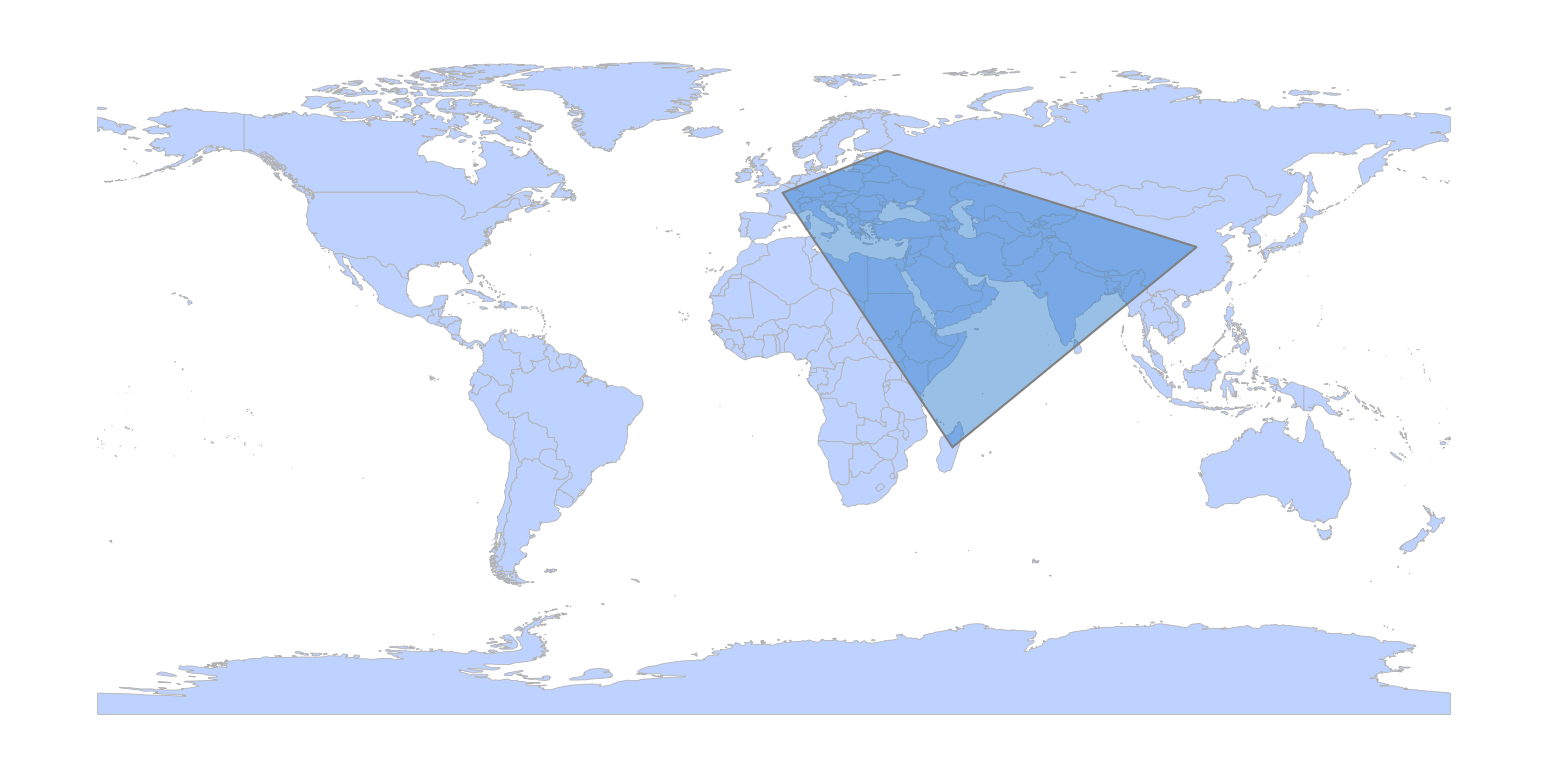
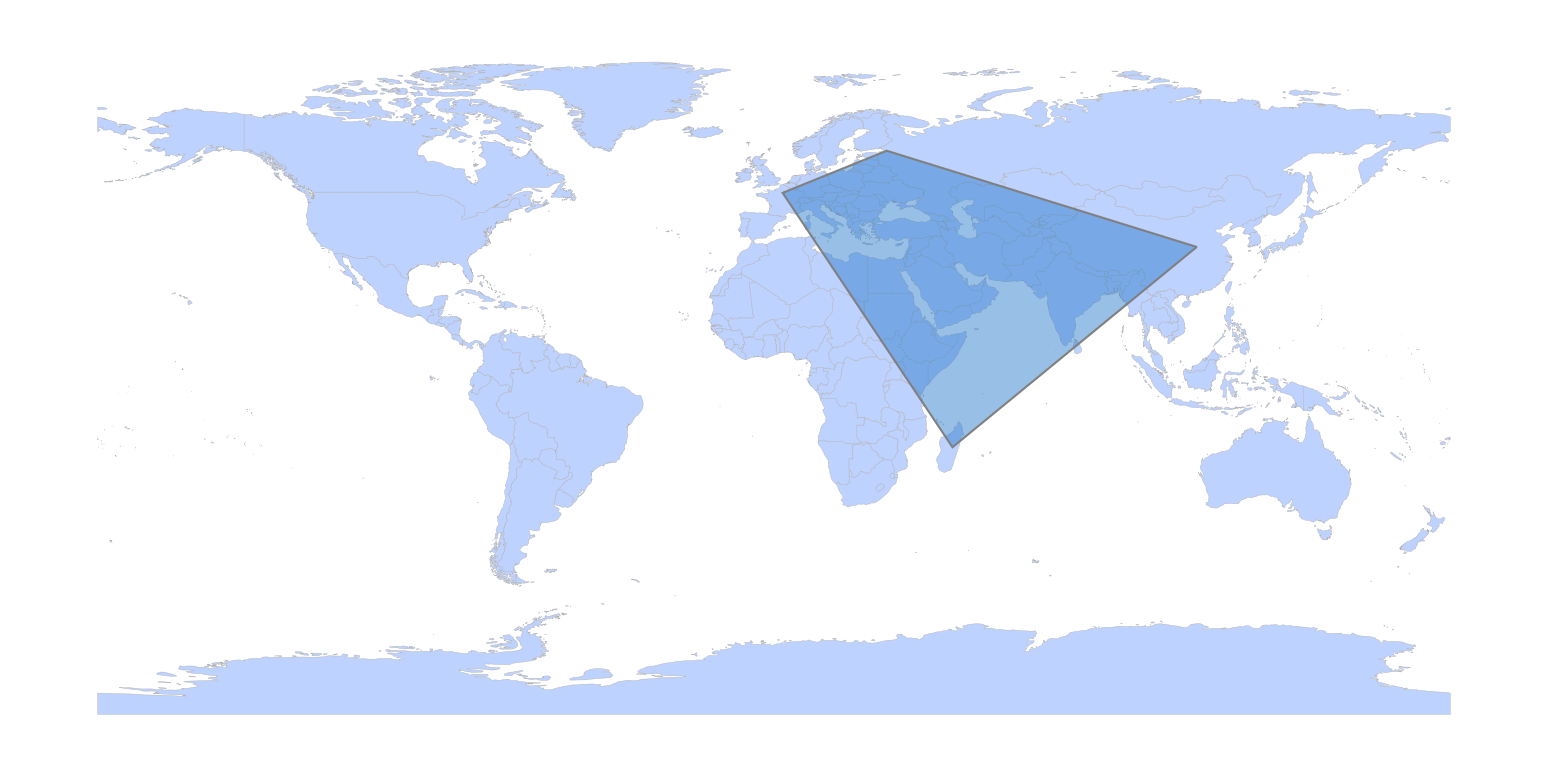
1.1.6a3

diff --git a/docs/UserGuide/map/plot/MapFrame/AddFeature.md b/docs/UserGuide/map/plot/MapFrame/AddFeature.md
@@ -4,7 +4,7 @@ date: 2023-04-10
 sidebar: false
 ---
 
-## **AddFeature**(*GMAFeature, FaceColor = '#BED2FF', EdgeColor = '#B2B2B2',                   Hatch = None, LineStyle = None, LineWidth = 0.5, LineColor = '#B2B2B2',                   PointColor = '#BED2FF', PointSize = 0.5, PointMarker = None, Label = None,                   FieldName = None, Connector = '', Zorder = None*)<Badge text="1.1.5 +"/> 
+## **AddFeature**(*GMAFeature, FaceColor = '#BED2FF', EdgeColor = '#B2B2B2', Hatch = None, LineStyle = None, LineWidth = 0.5, LineColor = '#B2B2B2', PointColor = '#BED2FF', PointSize = 0.5, PointMarker = None, Label = None,  FieldName = None, Connector = '', Zorder = None*)<Badge text="1.1.5 +"/> 
 
 ---
 
@@ -69,9 +69,8 @@ FPolygon = plot.CreatePlotFeature(Points, Type = 'Polygon')
 # 1.初始化一个地图框，底图 0 定义的坐标系
 MapF = plot.MapFrame(Axes = None, BaseMapProj = 4326, Extent = None)
 
-# 2.将内置的世界矢量图层添加到地图框
-MapD1 = MapF.AddDataSetDiscrete(inres.WorldDataSet.NaturalEarth, Zorder = 0)
-# 2.2 添加面、线、点
+MapL1 = MapF.AddLayer(inres.WorldLayer.Country, LineWidth = 0.1)
+# 2.2 添加面
 MapL1 = MapF.AddFeature(FPolygon, FaceColor = (0.2, 0.5, 0.8, 0.5), EdgeColor = 'gray', LineWidth = 0.5, Zorder = 2)
 ```
 ![](/map/AddFeature.png)

diff --git a/docs/UserGuide/map/plot/MapFrame/AddDataSetClassify.md b/docs/UserGuide/map/plot/MapFrame/AddDataSetClassify.md
@@ -75,21 +75,15 @@ Remap = [[1000, 1],
 
 **示例：**
 ```python
-from gma.map import rcs, plot
-
-# 0. 打开 gma 内置数据
-WorldDS = plot.GetWorldDataSource()
-WorldLayer = WorldDS.GetLayer(0)
-
-WorldDEM = plot.GetWorldDEMDataSet()
+from gma.map import rcs, plot, inres
 
 # 1.初始化一个地图框，用于绘图
 MapF = plot.MapFrame(Axes = None, BaseMapProj = rcs.CustomGCS(), Extent = None)
 
 # 2.将内置的世界矢量图层添加到地图框
-MapL1 = MapF.AddLayer(WorldLayer, FaceColor = 'none', LineWidth = 0.2, EdgeColor = 'white', Zorder = 1)
+MapL1 = MapF.AddLayer(inres.WorldLayer.Country, FaceColor = 'none', LineWidth = 0.2, EdgeColor = 'white', Zorder = 1)
 
-Classify = MapF.AddDataSetClassify(WorldDEM,
+Classify = MapF.AddDataSetClassify(inres.WorldDataSet.DEM,
                                    CMap = 'rainbow',
                                    Remap = [[0, 0], [500, 1], [1000, 2], [1500, 3],[2000, 4], [3000, 5], [9000, 6]],
                                    Method = 'Range', 

diff --git a/docs/UserGuide/map/plot/MapFrame/AddDataSetDiscrete.md b/docs/UserGuide/map/plot/MapFrame/AddDataSetDiscrete.md
@@ -49,22 +49,16 @@ sidebar: false
 
 **示例：** *（下载 [示例栅格](/Open/ELE_China_GEBCO_2020.tif)）*
 ```python
-import gma
-from gma.map import plot
-
-WorldDS = plot.GetWorldDataSource()
-WorldLayer = WorldDS.GetLayer(0)
-
-DataSet = gma.Open('ELE_China_GEBCO_2020.tif')
+from gma.map import plot, inres
 
 # 初始化地图框
 MapF = plot.MapFrame(BaseMapProj = 4326, Extent = None)
 
 # 1.1添加矢量图层（可以重复添加多个图层）
-MapL1 = MapF.AddLayer(WorldLayer, FaceColor = None, EdgeColor = 'gray', LineWidth = 0.1)
+MapL1 = MapF.AddLayer(inres.WorldLayer.Country, FaceColor = None, EdgeColor = 'gray', LineWidth = 0.1)
 
 # 1.2 添加栅格数据集（可以重复添加多个栅格数据集）
-MapL1 = MapF.AddDataSetDiscrete(DataSet)
+MapL1 = MapF.AddDataSetDiscrete(inres.WorldDataSet.DEM)
 
 # 2.添加经纬网
 Grid = MapF.AddGridLines(LONRange = (-180, 180, 30), LATRange = (-90, 90, 15), LineWidth = 0.2)

diff --git a/docs/UserGuide/map/plot/MapFrame/AddCompass.md b/docs/UserGuide/map/plot/MapFrame/AddCompass.md
@@ -36,14 +36,11 @@ sidebar: false
 
 **示例：**
 ```python
-from gma.map import plot
-
-WorldDS = plot.GetWorldDataSource()
-WorldLayer = WorldDS.GetLayer(0)
+from gma.map import plot, inres
 
 # 初始化地图框，并添加一个图层
 MapF = plot.MapFrame(BaseMapProj = 2163, Extent = None)
-MapL1 = MapF.AddLayer(WorldLayer, FaceColor = None, EdgeColor = 'gray', LineWidth = 0.1)
+MapL1 = MapF.AddLayer(inres.WorldLayer.Country, FaceColor = None, EdgeColor = 'gray', LineWidth = 0.1)
 
 # 添加指北针
 AddCompass = MapF.AddCompass(LOC = (0.1, 0.8), Color = 'gray')
